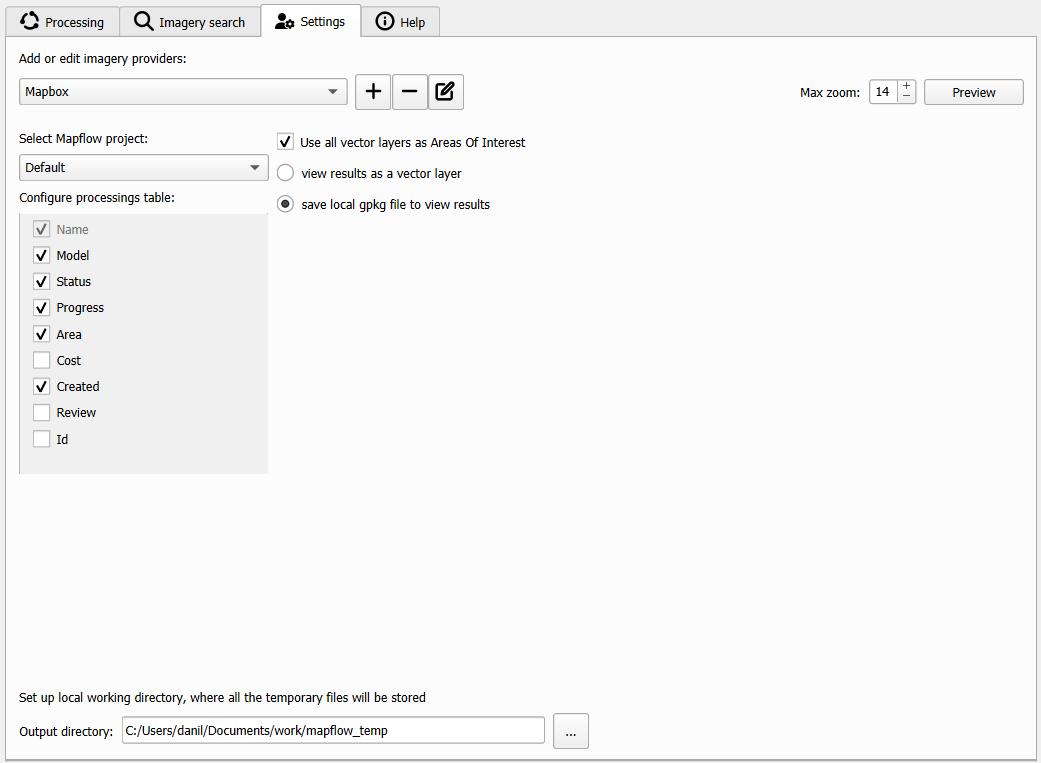
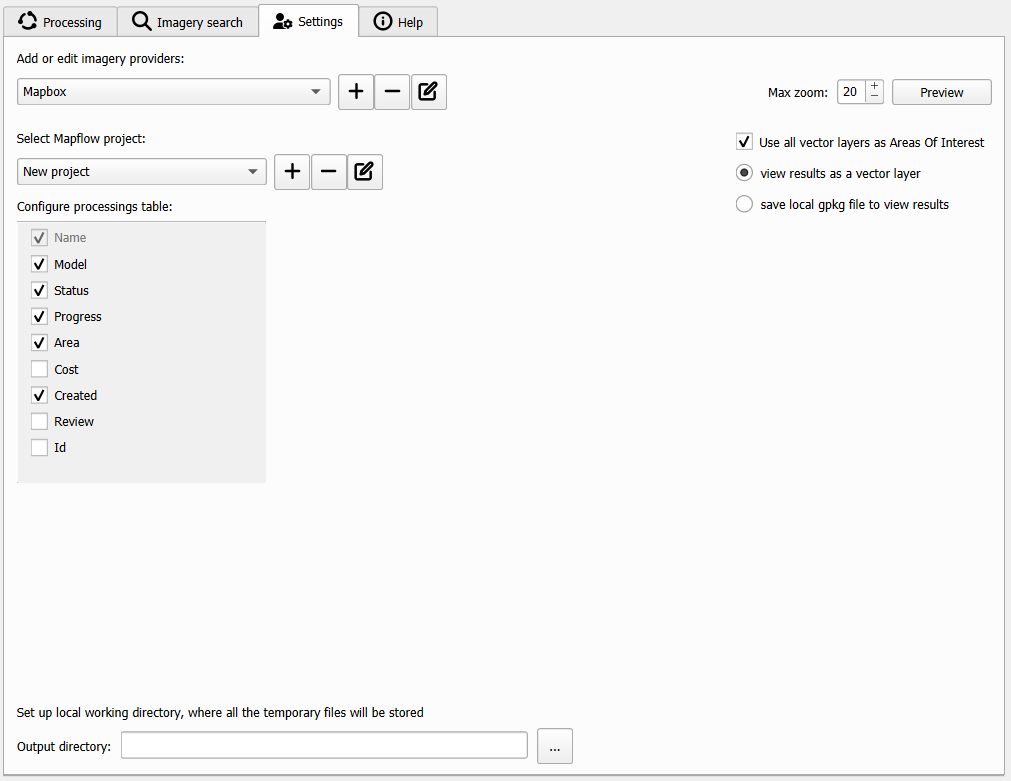
2.6.0 features

Changed region(s): [[0.0, 0.0301, 1.0, 1.0], [0.0, 0.0, 0.4599, 0.6029], [0.2453, 0.1809, 0.5213, 0.3014]]

diff --git a/source/api/qgis_mapflow.rst b/source/api/qgis_mapflow.rst
@@ -98,7 +98,7 @@ Tabs section contains 4 tabs:
 .. figure:: _static/qgis/processing_tab.png
          :alt: View of the processing tab
          :align: center
-         :width: 15cm
+         :width: 18cm
          :class: with-border no-scaled-link 
 
 |
@@ -132,12 +132,18 @@ Tabs section contains 4 tabs:
      - Description
    * - View results
      - Shows the results of completed processing in QGIS layers.
-   * - See details
-     - Shows information about processing (*Name, Status, Model, Model options, Data provider*).
-   * - Save results
-     - Saves processing results to GeoJSON file. 
    * - Delete
      - Deletes selected processing/processings.
+   * - Options
+     - A list of options for working with the results of processings.
+   * - Save results
+     - Saves processing results to GeoJSON file. 
+   * - Download AOI
+     - Adds processing AOI to qgis as a layer, for further work or export.
+   * - See details
+     - Shows information about processing (*Name, Status, Model, Model options, Data provider*).
+   * - Rename
+     - Renames your processing.
 
 .. hint::
     To download the processing results, you can double-click on the completed processing in the list
@@ -194,10 +200,10 @@ Tabs section contains 4 tabs:
 .. figure:: _static/qgis/settings_tab_w_projects.png
          :alt: View of the providers tab
          :align: center
-         :width: 15cm
+         :width: 18cm
 
 |
-.. list-table:: Edit imagery providers available to the plugin
+.. list-table:: 
    :align: center
    :widths: auto
    :header-rows: 1
@@ -206,14 +212,20 @@ Tabs section contains 4 tabs:
      - Description
    * - Imagery providers
      - Drop-down list with additional satellite imagery providers.
-   * - Mapflow project
-     - Drop-down list with mapflow projects on you account.
-   * - "Add" button
+   * - "Add provider" button
      - Button for adding a source of images. 
-   * - "Delete" button
+   * - "Delete provider" button
      - Button for deleting the custom data provider.
-   * - "Edit" button
-     - Opens dialog to edit custom data provider
+   * - "Edit provider" button
+     - Opens dialog to edit custom data provider.
+   * - Select mapflow project
+     - Drop-down list with mapflow projects on you account.
+   * - "Add project" button
+     - Button for creating your new map flow project.
+   * - "Delete project" button
+     - Button for deleting the mapflow project.
+   * - "Edit project" button
+     - Button for editing the mapflow project.
 
 Here you can configure how the processing results will be uploaded to QGIS. There are two ways:
 
